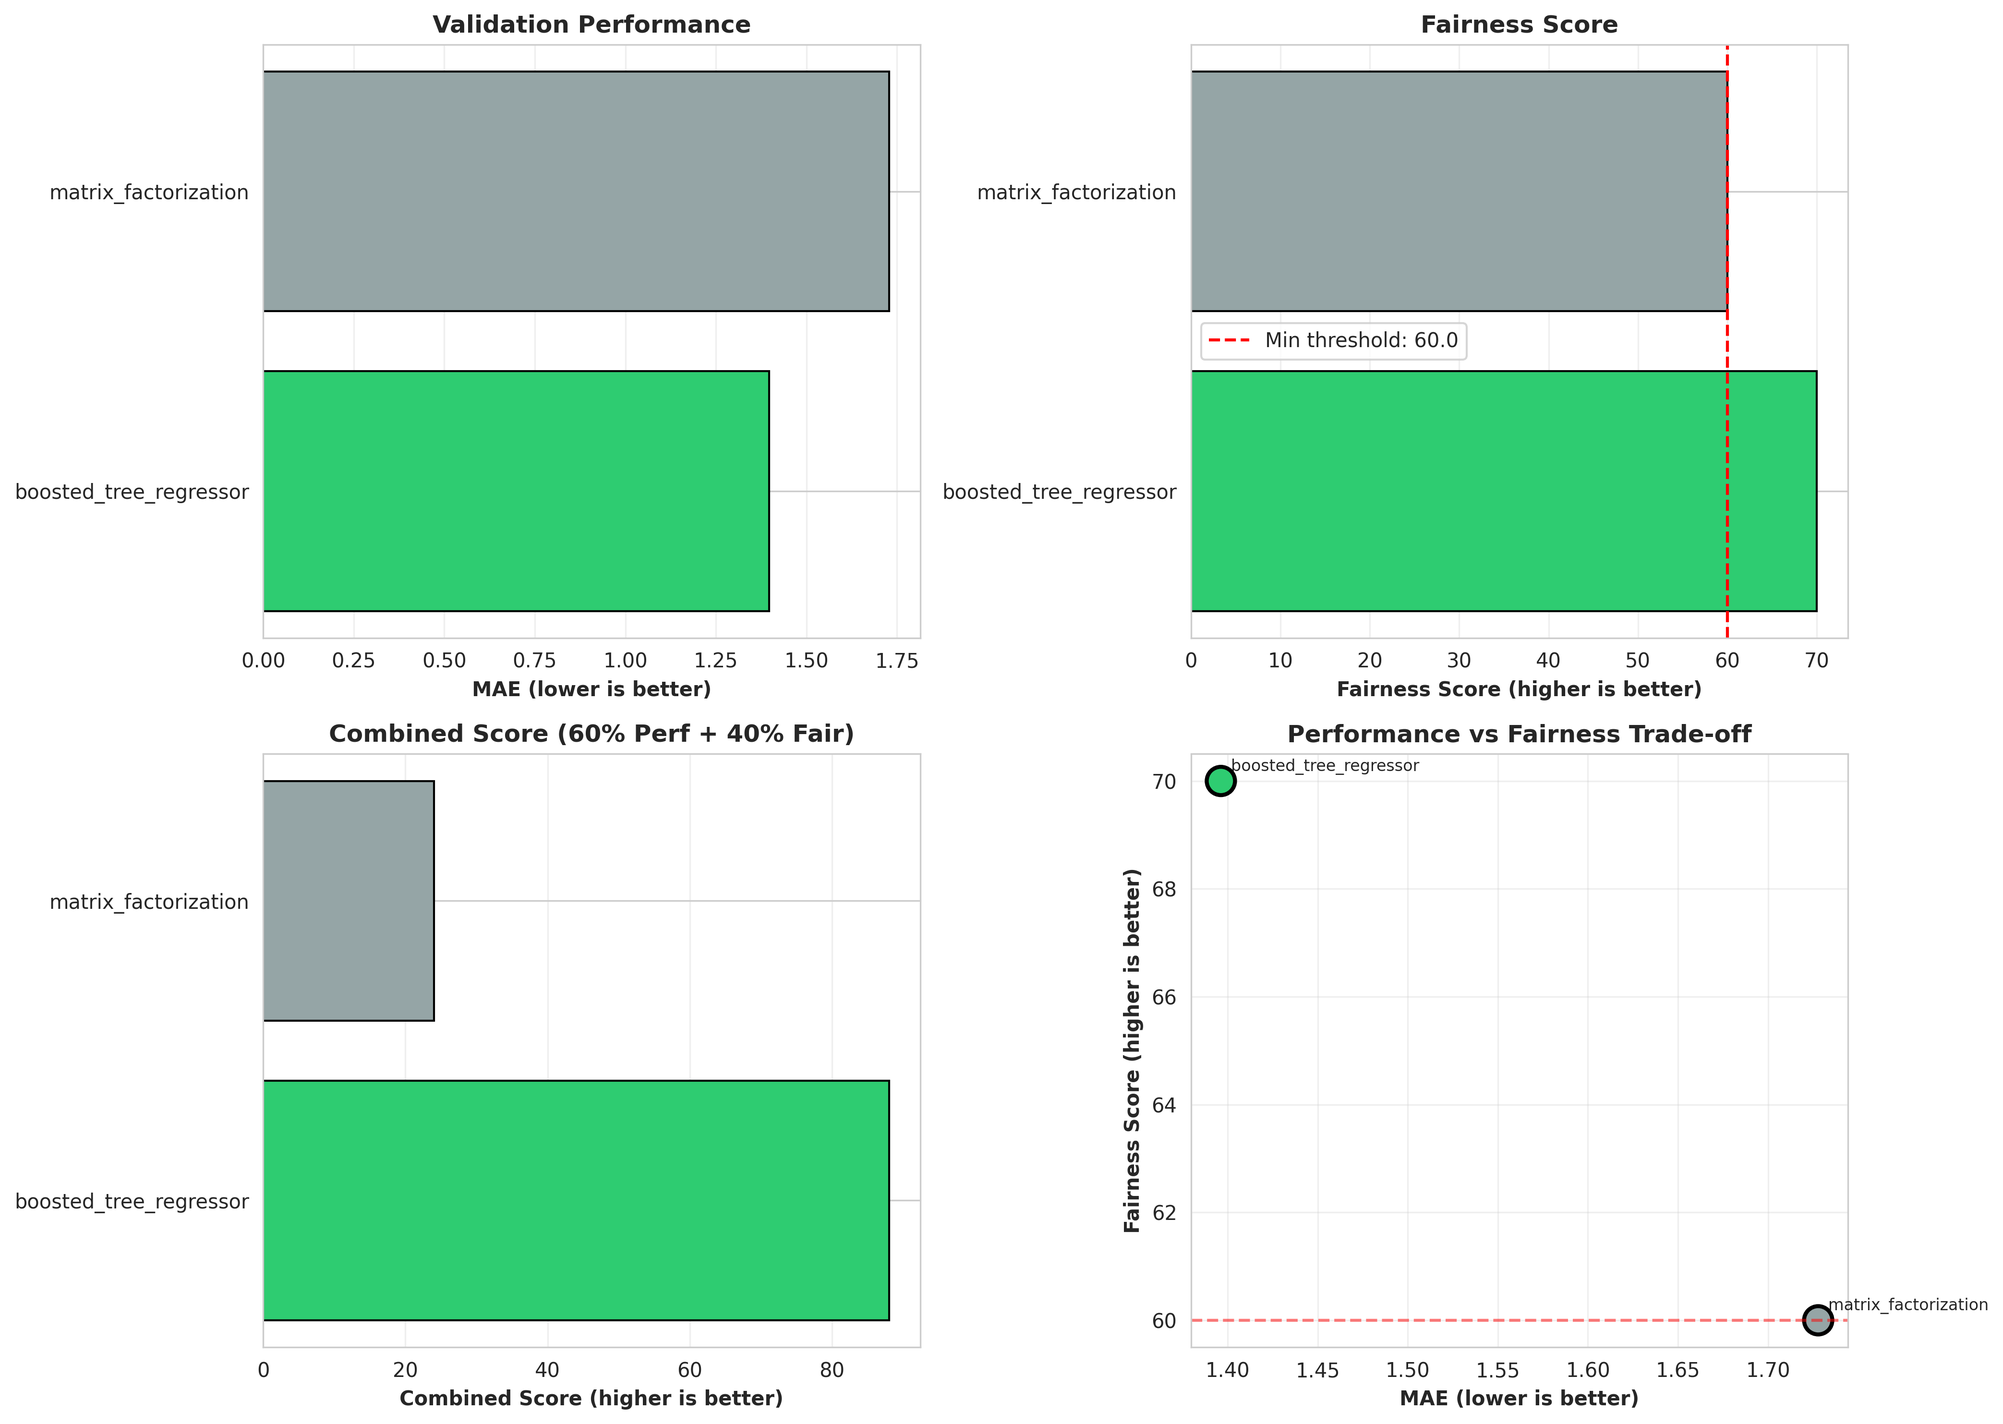
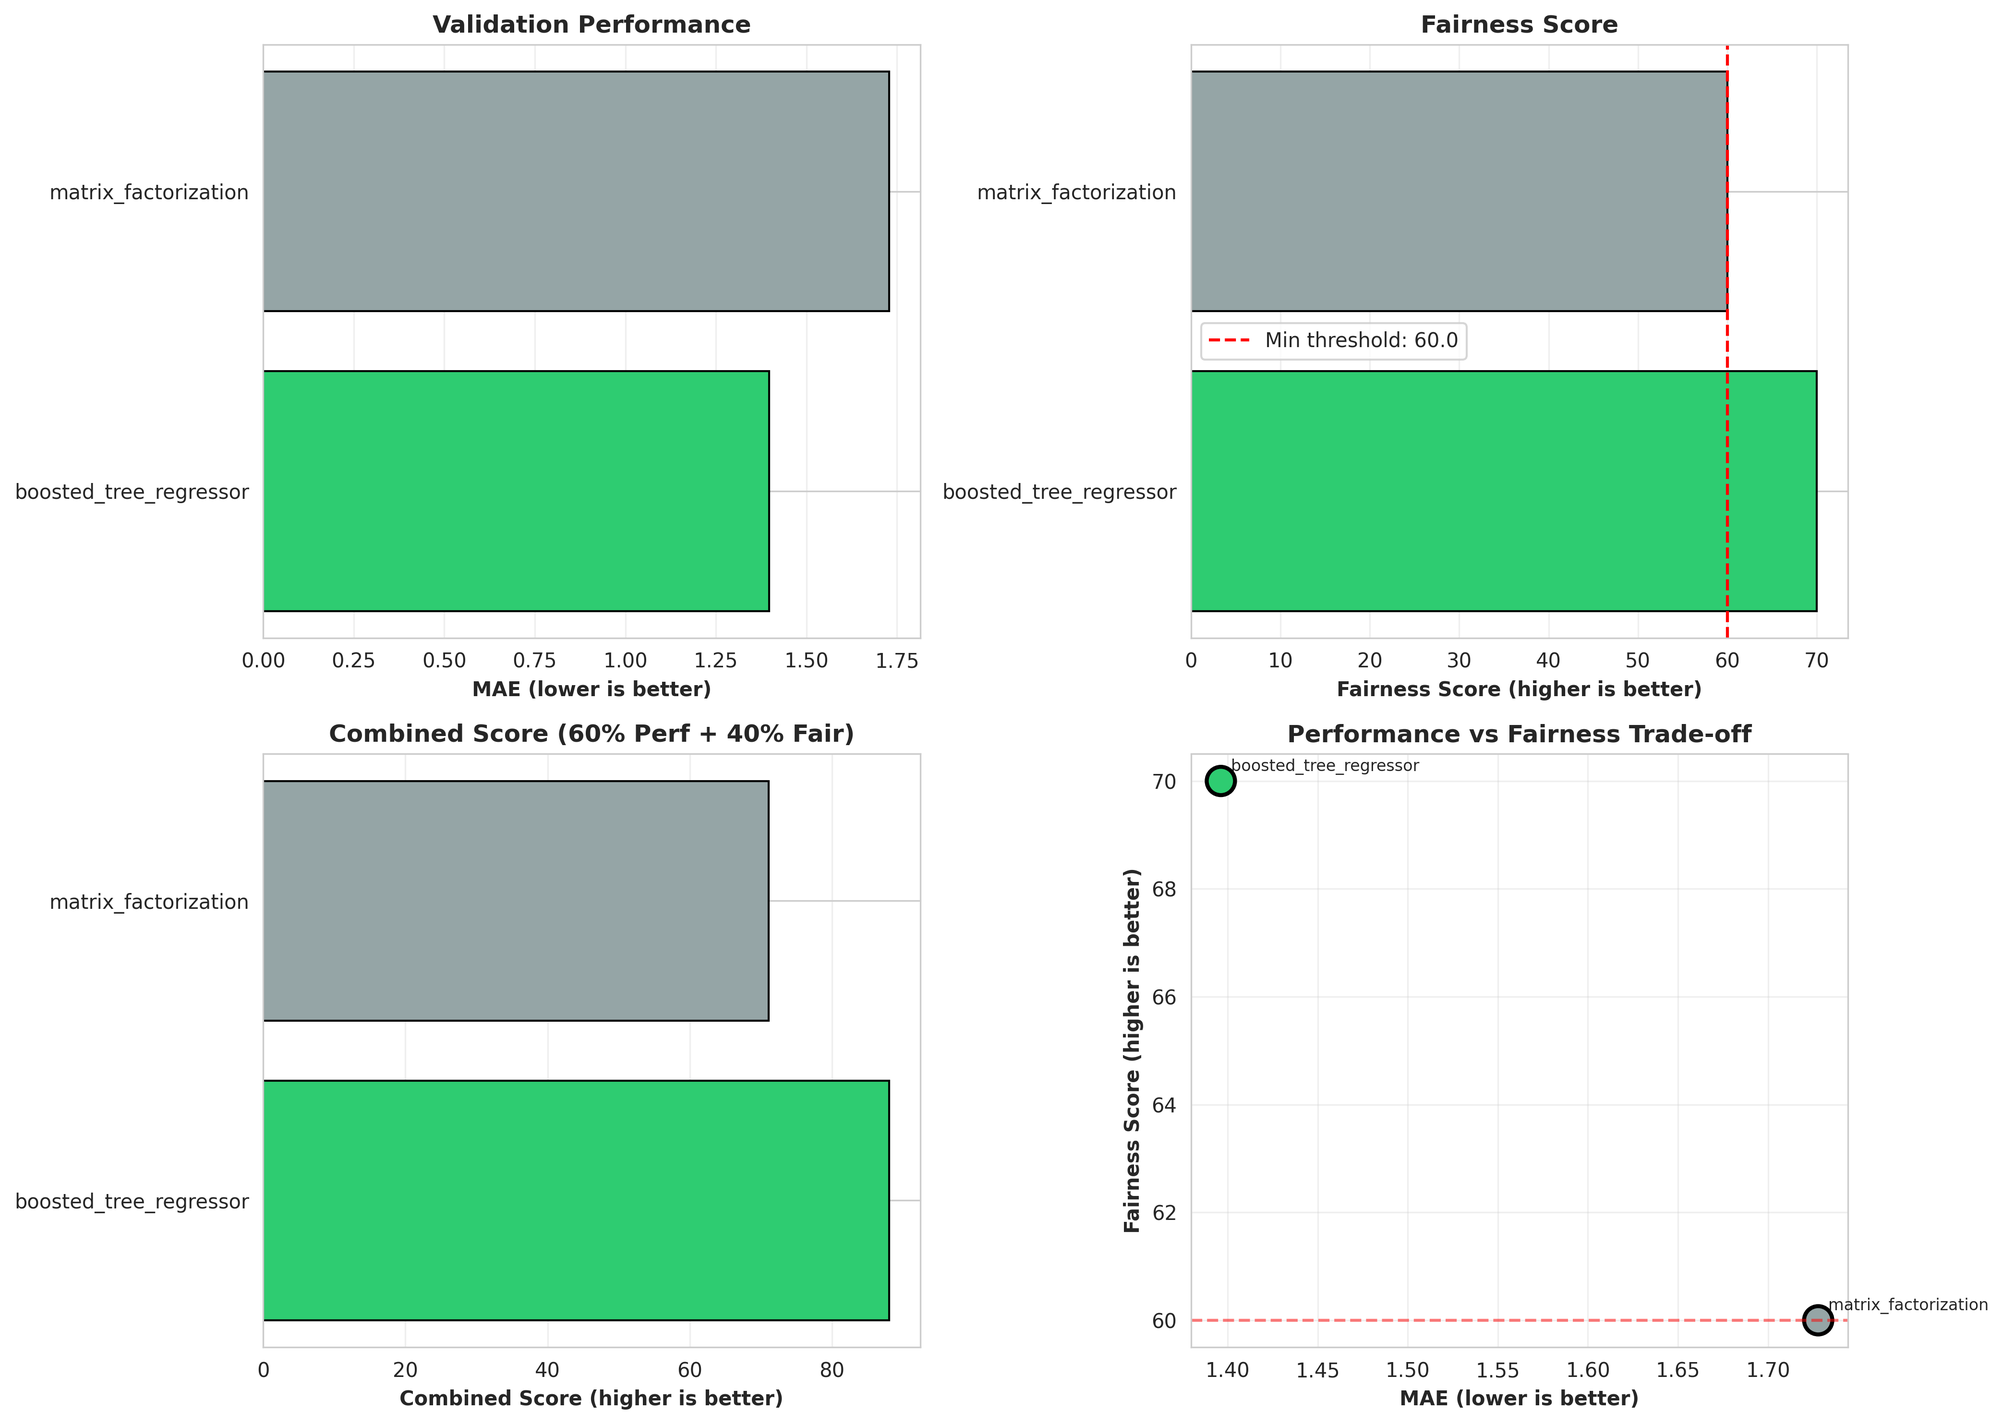
fixes

Changed region(s): [[0.2181, 0.5273, 0.4051, 0.7444]]

diff --git a/src/model_selector.py b/src/model_selector.py
@@ -27,6 +27,7 @@ class ModelCandidate:
     predictions_table: str
     validation_mae: float
     validation_rmse: float
+    performance_score: float
     fairness_score: float
     bias_disparities: int
     high_severity_disparities: int
@@ -113,6 +114,12 @@ class ModelSelector:
         """
         Normalize performance metrics to 0-100 scale (higher is better).
         
+        Uses a hybrid approach:
+        - With 3+ models: Uses min-max normalization for relative comparison
+        - With 2 models: Uses percentage-based scoring from best model
+        
+        This prevents artificial extremes (100 vs 0) when comparing only 2 models.
+
         Args:
             mae: Model's MAE
             rmse: Model's RMSE
@@ -122,24 +129,40 @@ class ModelSelector:
         Returns:
             Normalized performance score (0-100)
         """
-        # For MAE and RMSE, lower is better, so invert the scale
-        # Normalize to 0-1, then invert, then scale to 0-100
         
         mae_min, mae_max = min(all_maes), max(all_maes)
         rmse_min, rmse_max = min(all_rmses), max(all_rmses)
+
+        # If only 2 models, use percentage-based scoring to show actual gaps
+        if len(all_maes) == 2:
+            # Calculate percentage difference from best model
+            mae_pct_diff = ((mae - mae_min) / mae_min) * 100 if mae_min > 0 else 0
+            rmse_pct_diff = ((rmse - rmse_min) / rmse_min) * 100 if rmse_min > 0 else 0
+            
+            # Score: 100 - (percentage worse)
+            # Cap at 0 minimum, allow models within 100% of best to have positive scores
+            mae_score = max(0, 100 - mae_pct_diff)
+            rmse_score = max(0, 100 - rmse_pct_diff)
+            
+            performance_score = (mae_score + rmse_score) / 2
+            
+            return performance_score
         
-        # Avoid division by zero
-        mae_range = mae_max - mae_min if mae_max > mae_min else 1.0
-        rmse_range = rmse_max - rmse_min if rmse_max > rmse_min else 1.0
-        
-        # Normalize (lower is better, so subtract from 1)
-        mae_norm = 1 - ((mae - mae_min) / mae_range)
-        rmse_norm = 1 - ((rmse - rmse_min) / rmse_range)
-        
-        # Average and scale to 0-100
-        performance_score = ((mae_norm + rmse_norm) / 2) * 100
-        
-        return performance_score
+        # With 3+ models, use traditional min-max normalization
+        else:
+
+            # Avoid division by zero
+            mae_range = mae_max - mae_min if mae_max > mae_min else 1.0
+            rmse_range = rmse_max - rmse_min if rmse_max > rmse_min else 1.0
+            
+            # Normalize (lower is better, so subtract from 1)
+            mae_norm = 1 - ((mae - mae_min) / mae_range)
+            rmse_norm = 1 - ((rmse - rmse_min) / rmse_range)
+            
+            # Average and scale to 0-100
+            performance_score = ((mae_norm + rmse_norm) / 2) * 100
+            
+            return performance_score
     
     def calculate_combined_score(
         self,
@@ -227,7 +250,13 @@ class ModelSelector:
         
         print(f"\nEvaluating {len(model_candidates)} models...")
         print(f"Criteria: {self.performance_weight*100:.0f}% Performance + "
-              f"{self.fairness_weight*100:.0f}% Fairness\n")
+             f"{self.fairness_weight*100:.0f}% Fairness")
+        
+        if len(model_candidates) == 2:
+            print("\n⚠  Note: With 2 models, performance scores use percentage-based comparison")
+            print("   This shows actual performance gaps rather than artificial extremes\n")
+        else:
+            print()
         
         # Evaluate all models
         candidates = []
@@ -284,6 +313,13 @@ class ModelSelector:
             
             candidate['performance_score'] = perf_score
             candidate['combined_score'] = combined_score
+
+            # Log scoring details for transparency
+            print(f"\n  {candidate['model_name']}:")
+            print(f"    MAE: {candidate['mae']:.4f} | RMSE: {candidate['rmse']:.4f}")
+            print(f"    Performance Score: {perf_score:.1f}/100")
+            print(f"    Fairness Score: {candidate['fairness_score']}/100")
+            print(f"    Combined Score: {combined_score:.1f}/100")
         
         # Sort by combined score (descending)
         candidates.sort(key=lambda x: x['combined_score'], reverse=True)
@@ -338,6 +374,7 @@ class ModelSelector:
                 predictions_table=c['predictions_table'],
                 validation_mae=c['mae'],
                 validation_rmse=c['rmse'],
+                performance_score=c['performance_score'],
                 fairness_score=c['fairness_score'],
                 bias_disparities=c['disparities_count'],
                 high_severity_disparities=c['high_severity_count'],
@@ -372,21 +409,35 @@ class ModelSelector:
         # Rationale
         rationale_parts = []
         rationale_parts.append(f"Selected '{selected['model_name']}' with combined score of {selected['combined_score']:.1f}/100.")
-        
+
         if selected == best_performance and selected == best_fairness:
-            rationale_parts.append("This model achieves BOTH the best performance AND best fairness.")
+            if selected['fairness_score'] >= 80:
+                rationale_parts.append("This model achieves BOTH the best performance AND best fairness.")
+            elif selected['fairness_score'] >= 70:
+                rationale_parts.append("This model has the best performance and is the least biased among candidates.")
+            else:
+                rationale_parts.append("This model outperforms alternatives in both accuracy and fairness, though fairness could be improved.")
         elif selected == best_performance:
             rationale_parts.append("This model has the best validation performance.")
         elif selected == best_fairness:
-            rationale_parts.append("This model has the best fairness score.")
+            if selected['fairness_score'] >= 80:
+                rationale_parts.append("This model has excellent fairness.")
+            else:
+                rationale_parts.append("This model has the best fairness score among candidates.")
         else:
             rationale_parts.append(f"This model balances performance and fairness optimally under the {self.performance_weight*100:.0f}/{self.fairness_weight*100:.0f} weighting.")
         
         if trade_offs['performance_sacrifice'] > 0:
             rationale_parts.append(f"Accepts {trade_offs['performance_sacrifice']:.1f}% higher MAE for {trade_offs['fairness_gain']:.1f} point fairness improvement.")
         
+        # Enhanced warning with severity context
         if selected['high_severity_count'] > 0:
-            rationale_parts.append(f"⚠ NOTE: Model has {selected['high_severity_count']} high-severity bias disparities. Consider mitigation.")
+            if selected['fairness_score'] < 70:
+                rationale_parts.append(f"⚠ CAUTION: Model has {selected['high_severity_count']} high-severity bias disparities and low fairness ({selected['fairness_score']}/100). Mitigation strongly recommended before deployment.")
+            else:
+                rationale_parts.append(f"⚠ NOTE: Model has {selected['high_severity_count']} high-severity bias disparities. Consider mitigation before deployment.")
+        elif selected['disparities_count'] > 0:
+            rationale_parts.append(f"Model has {selected['disparities_count']} moderate bias disparities. Monitor for fairness in production.")
         
         rationale = " ".join(rationale_parts)
         
@@ -409,17 +460,20 @@ class ModelSelector:
         
         print(f"\n🎯 SELECTED MODEL: {report.selected_model.model_name}")
         print(f"   Combined Score: {report.selected_model.combined_score:.1f}/100")
-        print(f"   Validation MAE: {report.selected_model.validation_mae:.4f}")
+        print(f"   Performance Score: {report.selected_model.performance_score:.1f}/100")
         print(f"   Fairness Score: {report.selected_model.fairness_score:.1f}/100")
+        print(f"   Validation MAE: {report.selected_model.validation_mae:.4f}")
+        print(f"   Validation RMSE: {report.selected_model.validation_rmse:.4f}")
         
         print(f"\n📊 ALL CANDIDATES:")
-        print(f"{'Model':<30} {'MAE':<10} {'Fairness':<12} {'Combined':<12} {'Status'}")
-        print("-" * 80)
+        print(f"{'Model':<30} {'MAE':<10} {'Perf':<8} {'Fair':<8} {'Combined':<10} {'Status'}")
+        print("-" * 85)
         
         for candidate in report.candidates:
             status = "✓ SELECTED" if candidate == report.selected_model else "  "
             print(f"{candidate.model_name:<30} {candidate.validation_mae:<10.4f} "
-                  f"{candidate.fairness_score:<12.1f} {candidate.combined_score:<12.1f} {status}")
+                  f"{candidate.performance_score:<8.1f} {candidate.fairness_score:<8.1f} "
+                  f"{candidate.combined_score:<10.1f} {status}")
         
         print(f"\n💡 RATIONALE:")
         print(f"   {report.rationale}")

diff --git a/src/bias_pipeline.py b/src/bias_pipeline.py
@@ -114,10 +114,22 @@ class BiasAuditPipeline:
             print("\n[STEP 2/5] Applying Bias Mitigation...")
             
             if mitigation_techniques is None:
-                mitigation_techniques = ['threshold_adjustment']
+                mitigation_techniques = ['prediction_shrinkage']
             
             for technique in mitigation_techniques:
-                if technique == 'threshold_adjustment':
+                if technique == 'prediction_shrinkage':
+                    # Apply shrinkage directly to predictions (NEW)
+                    mitigation_result = self._apply_prediction_shrinkage(
+                        predictions_table,
+                        model_name,
+                        detection_report
+                    )
+                    if mitigation_result:
+                        audit_results['mitigation_results'].append(mitigation_result)
+                        # Update predictions table to debiased version for validation
+                        audit_results['debiased_table'] = mitigation_result.output_table
+                
+                elif technique == 'threshold_adjustment':
                     mitigation_result = self._apply_threshold_mitigation(
                         predictions_table,
                         model_name,
@@ -169,6 +181,12 @@ class BiasAuditPipeline:
         if audit_results['visualizations_generated']:
             print("Visualizations: data/bias_reports/visualizations/")
         
+        # Show production-ready table if mitigation was applied
+        if audit_results.get('debiased_table'):
+            print(f"\n✓ PRODUCTION-READY TABLE (Debiased):")
+            print(f"  {audit_results['debiased_table']}")
+            print(f"  Use this table for production deployment")
+        
         return audit_results
     
     def _apply_threshold_mitigation(
@@ -213,6 +231,113 @@ class BiasAuditPipeline:
         self.mitigator.save_mitigation_report(result, report_path)
         
         return result
+    
+    def _apply_prediction_shrinkage(
+        self,
+        predictions_table: str,
+        model_name: str,
+        detection_report: BiasReport,
+        lambda_shrinkage: float = 0.3
+    ) -> MitigationResult:
+        """
+        Apply shrinkage directly to predictions to reduce Book Era bias.
+        
+        This is faster than retraining and works on already-generated predictions.
+        """
+        print("\n  Applying prediction shrinkage mitigation...")
+        print(f"  Lambda: {lambda_shrinkage}")
+        
+        disparities = detection_report.disparity_analysis['detailed_disparities']
+        if not disparities:
+            return None
+        
+        # Focus on Book Era (the mitigatable bias)
+        book_era_disp = next((d for d in disparities if d['dimension'] == 'Book Era'), None)
+        
+        if not book_era_disp:
+            print("  No Book Era bias detected, skipping shrinkage")
+            return None
+        
+        output_table = f"{self.project_id}.{self.dataset_id}.{model_name}_rating_predictions_debiased"
+        
+        print(f"  Target dimension: Book Era")
+        print(f"  Original MAE CV: {book_era_disp['mae_cv']:.4f}")
+        
+        # Apply shrinkage query
+        from google.cloud import bigquery
+        query = f"""
+        CREATE OR REPLACE TABLE `{output_table}` AS
+        WITH era_stats AS (
+            SELECT 
+                book_era,
+                AVG(predicted_rating) as era_mean,
+                COUNT(*) as era_count
+            FROM `{predictions_table}`
+            WHERE book_era IS NOT NULL
+            GROUP BY book_era
+        ),
+        global_stats AS (
+            SELECT AVG(predicted_rating) as global_mean
+            FROM `{predictions_table}`
+        )
+        SELECT 
+            p.* EXCEPT(predicted_rating, absolute_error, error),
+            predicted_rating as original_predicted_rating,
+            -- Apply shrinkage
+            predicted_rating - ({lambda_shrinkage} * (e.era_mean - g.global_mean)) as predicted_rating,
+            -- Recalculate errors
+            ABS(actual_rating - (predicted_rating - ({lambda_shrinkage} * (e.era_mean - g.global_mean)))) as absolute_error,
+            (actual_rating - (predicted_rating - ({lambda_shrinkage} * (e.era_mean - g.global_mean)))) as error
+        FROM `{predictions_table}` p
+        LEFT JOIN era_stats e ON p.book_era = e.book_era
+        CROSS JOIN global_stats g
+        WHERE p.actual_rating IS NOT NULL
+        """
+        
+        try:
+            client = bigquery.Client(project=self.project_id)
+            job = client.query(query)
+            job.result()
+            print(f"  ✓ Debiased predictions saved to: {output_table}")
+            
+            # Compute metrics
+            orig_mae = self._get_table_mae(predictions_table)
+            mit_mae = self._get_table_mae(output_table)
+            mae_change = ((mit_mae - orig_mae) / orig_mae * 100)
+            
+            improvement_pct = {
+                'mae_change': mae_change,
+                'disparity_reduction': 'See validation step'
+            }
+            
+            result = MitigationResult(
+                technique="prediction_shrinkage",
+                timestamp=datetime.now().isoformat(),
+                original_metrics={'mae': orig_mae},
+                mitigated_metrics={'mae': mit_mae},
+                improvement_pct=improvement_pct,
+                output_table=output_table
+            )
+            
+            print(f"  ✓ MAE change: {mae_change:+.2f}%")
+            
+            return result
+            
+        except Exception as e:
+            print(f"  ✗ Error applying prediction shrinkage: {e}")
+            return None
+    
+    def _get_table_mae(self, table: str) -> float:
+        """Helper to get MAE from a table."""
+        from google.cloud import bigquery
+        client = bigquery.Client(project=self.project_id)
+        query = f"""
+        SELECT AVG(absolute_error) as mae
+        FROM `{table}`
+        WHERE actual_rating IS NOT NULL
+        """
+        result = client.query(query).to_dataframe(create_bqstorage_client=False)
+        return float(result['mae'].iloc[0])
     
     def _apply_shrinkage_mitigation(
         self,
@@ -277,7 +402,7 @@ class BiasAuditPipeline:
                 }
                 
                 # Re-run bias detection on mitigated predictions
-                if result.technique == 'threshold_adjustment':
+                if result.technique in ['threshold_adjustment', 'prediction_shrinkage']:
                     print(f"\n  Re-running bias detection on mitigated predictions...")
                     post_mitigation_report = self.detector.detect_bias(
                         predictions_table=result.output_table,
@@ -300,7 +425,8 @@ class BiasAuditPipeline:
             'audit_metadata': {
                 'model_name': audit_results['model_name'],
                 'timestamp': audit_results['timestamp'],
-                'predictions_table': audit_results['predictions_table']
+                'predictions_table': audit_results['predictions_table'],
+                'debiased_table': audit_results.get('debiased_table')  # Production-ready table
             },
             'bias_detection': {
                 'timestamp': audit_results['detection_report'].timestamp,
@@ -496,7 +622,7 @@ def run_bias_audit_for_all_models(with_model_selection: bool = True):
                     model_name=model['model_name'],
                     predictions_table=model['predictions_table'],
                     apply_mitigation=True,
-                    mitigation_techniques=['threshold_adjustment'],
+                    mitigation_techniques=['prediction_shrinkage'],  # Use prediction shrinkage by default
                     generate_visualizations=True
                 )
                 all_results[model['model_name']] = results
